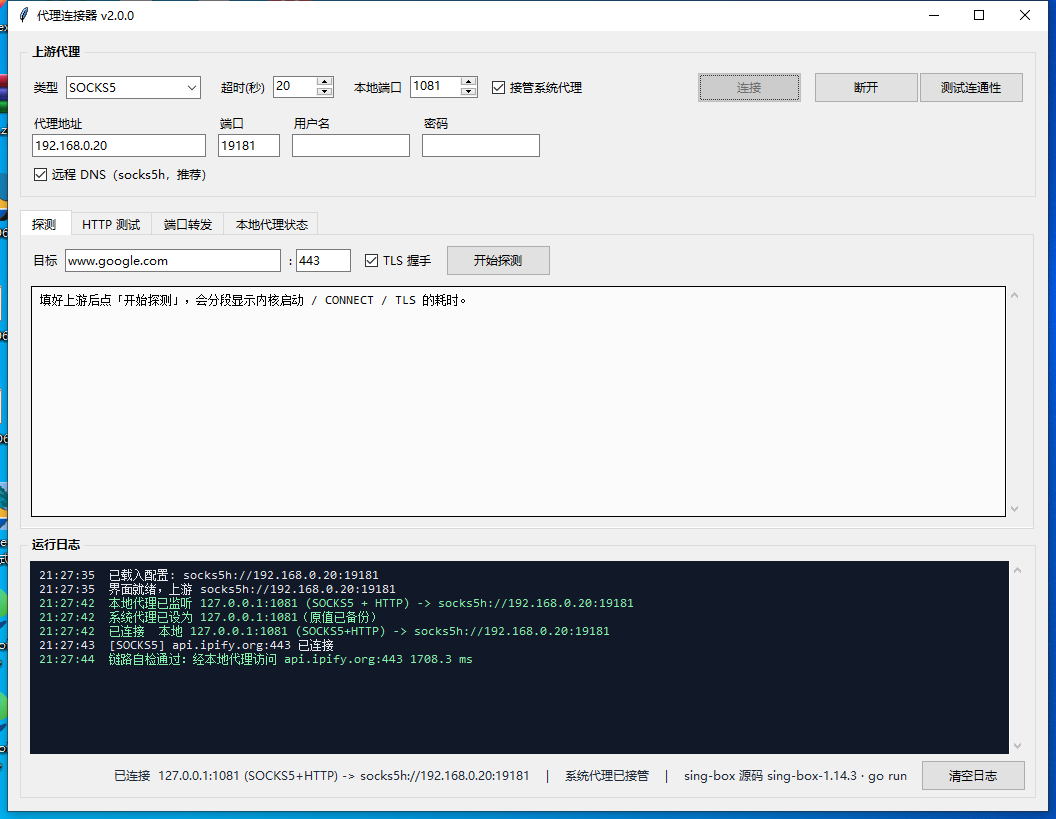
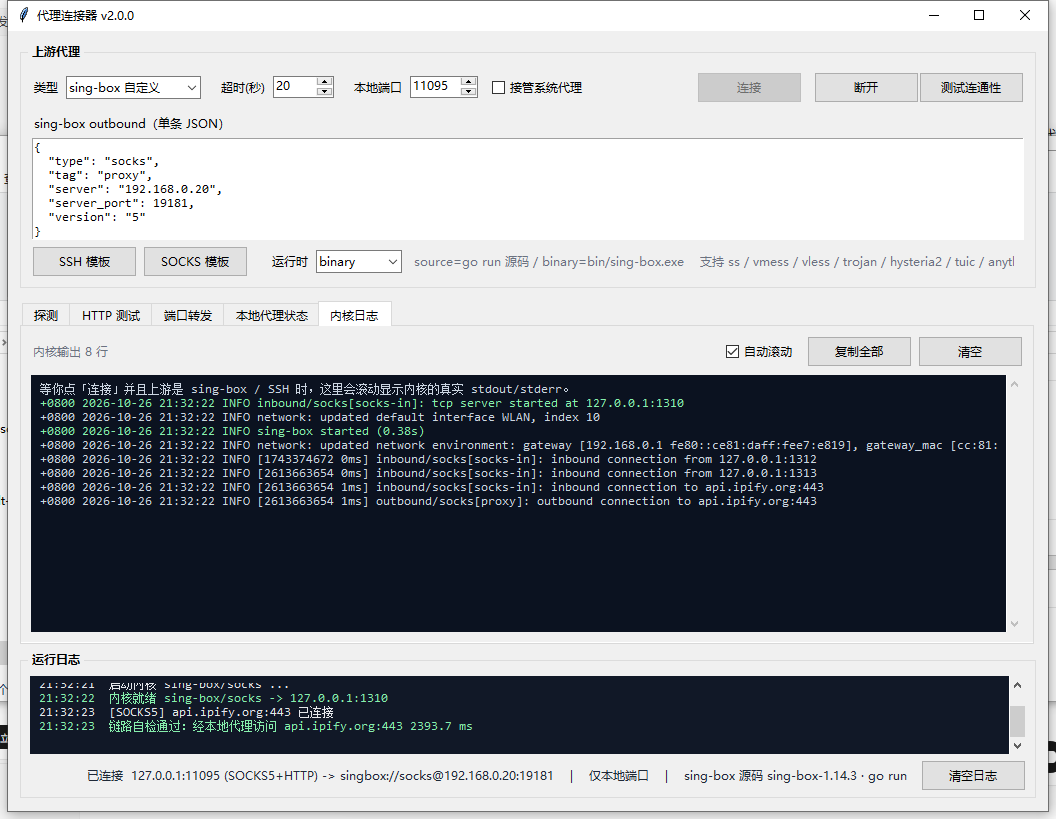
feat: 内核日志单独一页，逐行原样显示 sing-box 输出
- engines: 内核输出改用 KERNEL 级别上报，剥掉 ANSI 颜色码
- 新增「内核日志」页：自动切换 / 分级染色 / 复制全部 / 4000 行上限
- go run 编译期间每 5 秒报「等待内核尚未就绪 Ns」，不再像卡死
- sing-box 与 SSH 表单新增「运行时」下拉（auto/source/binary）
- CLI 同步打印 [内核] 行，可用 QUIET_KERNEL=1 关掉
- 修复无配置文件时系统代理备份丢失、无法精确还原的问题

diff --git a/connector/gui.py b/connector/gui.py
@@ -18,7 +18,7 @@ import tkinter as tk
 from tkinter import messagebox, ttk
 
 from . import __version__
-from .common import split_host_port
+from .common import app_dir, split_host_port
 from .engines import find_go_binary, find_singbox_binary, find_singbox_source
 from .forward import TcpTunnel
 from .localproxy import MixedProxy
@@ -75,10 +75,11 @@ class GuiApp:
         self.upstream: Upstream = upstream or Socks5Upstream("127.0.0.1", 1080)
         self.tunnel: TcpTunnel | None = None
         self.proxy: MixedProxy | None = None
+        # 备份文件必须落盘：没有它就无法把系统代理精确还原
+        state_dir = (os.path.dirname(os.path.abspath(config_path))
+                     if config_path else app_dir())
         self.sysproxy = SystemProxy(
-            state_path=(os.path.join(os.path.dirname(os.path.abspath(config_path)),
-                                     "system_proxy_backup.json")
-                        if config_path else None),
+            state_path=os.path.join(state_dir, "system_proxy_backup.json"),
             log=self.log)
         self.last_target = ""
         self.local_port = 1081
@@ -240,6 +241,12 @@ class GuiApp:
         ttk.Label(cell, text="引擎").pack(anchor="w")
         ttk.Combobox(cell, textvariable=self.v_q_engine, state="readonly", width=26,
                      values=["auto", "singbox", "openssh"]).pack(fill="x")
+        cell2 = ttk.Frame(frame)
+        cell2.grid(row=1, column=2, sticky="ew", padx=(0, 12), pady=(0, 6))
+        ttk.Label(cell2, text="sing-box 运行时").pack(anchor="w")
+        self.v_q_runtime = tk.StringVar(value="auto")
+        ttk.Combobox(cell2, textvariable=self.v_q_runtime, state="readonly", width=10,
+                     values=["auto", "source", "binary"]).pack(fill="x")
         ttk.Label(frame, text="密码登录需要 sing-box 内核；纯密钥可直接用系统 OpenSSH。",
                   style="Hint.TLabel").grid(row=2, column=0, columnspan=4, sticky="w")
         return frame
@@ -258,6 +265,12 @@ class GuiApp:
                    command=lambda: self._sb_template("ssh")).pack(side="left")
         ttk.Button(bar, text="SOCKS 模板",
                    command=lambda: self._sb_template("socks")).pack(side="left", padx=6)
+        ttk.Label(bar, text="运行时").pack(side="left", padx=(16, 0))
+        self.v_sb_runtime = tk.StringVar(value="auto")
+        ttk.Combobox(bar, textvariable=self.v_sb_runtime, state="readonly", width=9,
+                     values=["auto", "source", "binary"]).pack(side="left", padx=6)
+        ttk.Label(bar, text="source=go run 源码 / binary=bin/sing-box.exe",
+                  style="Hint.TLabel").pack(side="left", padx=4)
         ttk.Label(bar, text="支持 ss / vmess / vless / trojan / hysteria2 / tuic / anytls …",
                   style="Hint.TLabel").pack(side="left", padx=8)
         return frame
@@ -295,6 +308,7 @@ class GuiApp:
         self._build_fetch_page()
         self._build_tunnel_page()
         self._build_http_proxy_page()
+        self._build_kernel_page()
 
     def _build_probe_page(self) -> None:
         page = ttk.Frame(self.nb, padding=10)
@@ -384,6 +398,45 @@ class GuiApp:
                     "  · SOCKS5（支持 socks5 的软件、curl --socks5-hostname）\n"
                     "地址形如 127.0.0.1:1081，端口可在上方「本地端口」修改。\n")
 
+    def _build_kernel_page(self) -> None:
+        """sing-box / ssh 内核的原始输出，一行不改，原样展示。"""
+        page = ttk.Frame(self.nb, padding=10)
+        self.nb.add(page, text="  内核日志  ")
+        self.page_kernel = page
+        page.columnconfigure(0, weight=1)
+        page.rowconfigure(1, weight=1)
+
+        bar = ttk.Frame(page)
+        bar.grid(row=0, column=0, sticky="ew")
+        self.lbl_kernel = ttk.Label(bar, text="内核未启动（用 sing-box / SSH 上游时才会有输出）",
+                                    style="Hint.TLabel")
+        self.lbl_kernel.pack(side="left")
+        ttk.Button(bar, text="清空", command=self._clear_kernel).pack(side="right")
+        ttk.Button(bar, text="复制全部", command=self._copy_kernel).pack(side="right", padx=6)
+        self.v_kernel_follow = tk.BooleanVar(value=True)
+        ttk.Checkbutton(bar, text="自动滚动",
+                        variable=self.v_kernel_follow).pack(side="right", padx=6)
+
+        wrap = ttk.Frame(page)
+        wrap.grid(row=1, column=0, sticky="nsew", pady=(8, 0))
+        wrap.columnconfigure(0, weight=1)
+        wrap.rowconfigure(0, weight=1)
+        self.txt_kernel = tk.Text(wrap, wrap="none", font=MONO, state="disabled",
+                                  bg="#0b1220", fg="#cbd5e1", relief="flat",
+                                  padx=8, pady=6)
+        scroll = ttk.Scrollbar(wrap, orient="vertical", command=self.txt_kernel.yview)
+        self.txt_kernel.configure(yscrollcommand=scroll.set)
+        self.txt_kernel.grid(row=0, column=0, sticky="nsew")
+        scroll.grid(row=0, column=1, sticky="ns")
+        self.txt_kernel.tag_configure("err", foreground="#fca5a5")
+        self.txt_kernel.tag_configure("warn", foreground="#fcd34d")
+        self.txt_kernel.tag_configure("ok", foreground="#86efac")
+        self.txt_kernel.tag_configure("dim", foreground="#94a3b8")
+        self._kernel_lines = 0
+        self._kernel_switched = False
+        self._write(self.txt_kernel, "等你点「连接」并且上游是 sing-box / SSH 时，"
+                                     "这里会滚动显示内核的真实 stdout/stderr。\n")
+
     def _build_log(self) -> None:
         card = ttk.LabelFrame(self.root, text=" 运行日志 ", padding=(8, 6))
         card.grid(row=2, column=0, sticky="nsew", padx=12, pady=(0, 12))
@@ -420,7 +473,7 @@ class GuiApp:
 
     def _poll_logs(self) -> None:
         try:
-            for _ in range(200):
+            for _ in range(600):
                 level, message = self._log_queue.get_nowait()
                 self._append_log(level, message)
         except queue.Empty:
@@ -428,6 +481,9 @@ class GuiApp:
         self.root.after(120, self._poll_logs)
 
     def _append_log(self, level: str, message: str) -> None:
+        if level == "KERNEL":
+            self._append_kernel(message)
+            return
         text = self.txt_log
         text.configure(state="normal")
         text.insert("end", f"{time.strftime('%H:%M:%S')}  {message}\n", level)
@@ -436,6 +492,49 @@ class GuiApp:
             text.delete("1.0", f"{lines - 600}.0")
         text.configure(state="disabled")
         text.see("end")
+
+    def _append_kernel(self, message: str) -> None:
+        """内核原始行：不改写、不缩略，只按关键字染色。"""
+        low = message.lower()
+        if "error" in low or "fatal" in low or "failed" in low or "panic" in low:
+            tag = "err"
+        elif "warn" in low:
+            tag = "warn"
+        elif "started" in low or "listening" in low or "sing-box started" in low:
+            tag = "ok"
+        elif low.startswith(("go:", "#", "building", "compiling")):
+            tag = "dim"
+        else:
+            tag = ""
+
+        text = self.txt_kernel
+        text.configure(state="normal")
+        text.insert("end", message + "\n", tag)
+        self._kernel_lines += 1
+        if self._kernel_lines > 4000:
+            text.delete("1.0", "500.0")
+            self._kernel_lines -= 500
+        text.configure(state="disabled")
+        if self.v_kernel_follow.get():
+            text.see("end")
+
+        self.lbl_kernel.configure(text=f"内核输出 {self._kernel_lines} 行")
+        if not self._kernel_switched:
+            self._kernel_switched = True
+            self.nb.select(self.page_kernel)
+
+    def _clear_kernel(self) -> None:
+        self.txt_kernel.configure(state="normal")
+        self.txt_kernel.delete("1.0", "end")
+        self.txt_kernel.configure(state="disabled")
+        self._kernel_lines = 0
+        self.lbl_kernel.configure(text="内核日志已清空")
+
+    def _copy_kernel(self) -> None:
+        body = self.txt_kernel.get("1.0", "end-1c")
+        self.root.clipboard_clear()
+        self.root.clipboard_append(body)
+        self.lbl_kernel.configure(text=f"已复制 {body.count(chr(10)) + 1} 行到剪贴板")
 
     def _clear_log(self) -> None:
         self.txt_log.configure(state="normal")
@@ -550,6 +649,7 @@ class GuiApp:
                 "password": self.v_q_pass.get(),
                 "key_path": self.v_q_key.get().strip(),
                 "engine": self.v_q_engine.get() or "auto",
+                "runtime": self.v_q_runtime.get() or "auto",
             })
         elif kind == "singbox":
             raw = self.txt_sb.get("1.0", "end").strip()
@@ -562,6 +662,7 @@ class GuiApp:
             if not isinstance(outbound, dict) or "type" not in outbound:
                 raise ValueError("outbound 必须是含 type 字段的对象")
             payload["outbound"] = outbound
+            payload["runtime"] = self.v_sb_runtime.get() or "auto"
         return payload
 
     def _fill_form(self, upstream: Upstream) -> None:
@@ -589,7 +690,9 @@ class GuiApp:
             self.v_q_pass.set(data.get("password", "") or "")
             self.v_q_key.set(data.get("key_path", "") or "")
             self.v_q_engine.set(data.get("engine", "auto"))
+            self.v_q_runtime.set(data.get("runtime", "auto"))
         elif kind == "singbox":
+            self.v_sb_runtime.set(data.get("runtime", "auto"))
             self.txt_sb.delete("1.0", "end")
             self.txt_sb.insert("1.0", json.dumps(data.get("outbound", {}),
                                                  ensure_ascii=False, indent=2))
@@ -607,6 +710,8 @@ class GuiApp:
         self.v_s_rdns.set(True)
         self.v_h_tls.set(False)
         self.v_q_engine.set("auto")
+        self.v_q_runtime.set("auto")
+        self.v_sb_runtime.set("auto")
 
     def _sb_template(self, kind: str) -> None:
         if kind == "ssh":

diff --git a/connector/engines.py b/connector/engines.py
@@ -14,6 +14,7 @@ from __future__ import annotations
 import json
 import os
 import platform
+import re
 import shutil
 import subprocess
 import tempfile
@@ -24,6 +25,9 @@ from .common import ProxyError, app_dir, free_port, wait_port
 from .upstream import Socks5Upstream, Upstream
 
 SINGBOX_REPO = "SagerNet/sing-box"
+
+# ANSI 转义序列（sing-box 的日志级别染色）
+_ANSI_RE = re.compile(r"\x1b\[[0-9;]*[A-Za-z]")
 
 
 # --------------------------------------------------------------------------
@@ -271,6 +275,10 @@ class ProcessSocksEngine(Upstream):
                 text=True, encoding="utf-8", errors="replace", creationflags=flags,
             )
             threading.Thread(target=self._pump, args=(proc,), daemon=True).start()
+            # go run 编译期间内核一声不吭，界面会像卡死；这里按秒报等待时长
+            stop_beat = threading.Event()
+            threading.Thread(target=self._heartbeat,
+                             args=(proc, stop_beat), daemon=True).start()
             try:
                 wait_port("127.0.0.1", port, timeout=self.start_timeout,
                           should_stop=lambda: proc.poll() is not None)
@@ -278,6 +286,8 @@ class ProcessSocksEngine(Upstream):
                 detail = " / ".join(self._tail[-4:]) or f"进程退出码 {proc.poll()}"
                 self._kill_tree(proc)
                 raise ProxyError(f"{self._engine_label()} 启动失败: {detail}") from None
+            finally:
+                stop_beat.set()
             self._proc = proc
             self._tmpdir = tmpdir
             self._local = Socks5Upstream("127.0.0.1", port, timeout=self.timeout)
@@ -285,6 +295,16 @@ class ProcessSocksEngine(Upstream):
         except BaseException:
             shutil.rmtree(tmpdir, ignore_errors=True)
             raise
+
+    def _heartbeat(self, proc: subprocess.Popen, stop: threading.Event) -> None:
+        """内核自己不打日志的时候（go run 编译中），把等待秒数如实报出来。"""
+        elapsed = 0
+        while not stop.wait(5):
+            elapsed += 5
+            if proc.poll() is not None:
+                return
+            self._log("INFO", f"[等待] 内核尚未就绪 {elapsed}s"
+                              f"（源码模式编译中，上限 {int(self.start_timeout)}s）")
 
     def _kill_tree(self, proc: subprocess.Popen | None) -> None:
         """结束子进程及其子进程（go run 会再派生子进程，必须整棵树杀）。"""
@@ -316,13 +336,15 @@ class ProcessSocksEngine(Upstream):
         if stream is None:
             return
         for line in stream:
-            line = line.rstrip()
-            if not line:
+            # sing-box 自带 ANSI 颜色码，日志面板里不能直接显示
+            line = _ANSI_RE.sub("", line).rstrip("\r\n")
+            if not line.strip():
                 continue
             self._tail.append(line)
             if len(self._tail) > 40:
                 del self._tail[0]
-            self._log("DEBUG", f"[{self._engine_label()}] {line}")
+            # KERNEL 级别：内核原始输出，界面上单独一页展示，不做任何改写
+            self._log("KERNEL", line)
 
     def connect(self, host: str, port: int, timeout: float | None = None):
         self.start()

diff --git a/socks5_connector.py b/socks5_connector.py
@@ -134,8 +134,13 @@ def build_parser() -> argparse.ArgumentParser:
 
 
 def _cli_log(level: str, message: str) -> None:
-    """CLI 侧的日志出口：内核 DEBUG 输出默认静音，DEBUG=1 才显示。"""
+    """CLI 侧的日志出口：内核原始行照打，DEBUG 需要 DEBUG=1 才显示。"""
     if level == "DEBUG" and not os.environ.get("DEBUG"):
+        return
+    if level == "KERNEL":
+        if os.environ.get("QUIET_KERNEL"):
+            return
+        print(f"{time.strftime('%H:%M:%S')} [内核] {message}", flush=True)
         return
     print(f"{time.strftime('%H:%M:%S')} [{level}] {message}", flush=True)
 

diff --git a/README.md b/README.md
@@ -48,7 +48,25 @@ curl --socks5-hostname 127.0.0.1:1081 https://api.ipify.org
 curl -x http://127.0.0.1:1081 https://api.ipify.org
 ```
 
-下面四个分页分别是探测、HTTP 测试、端口转发、本地代理状态。底部是实时日志。
+下面五个分页：探测、HTTP 测试、端口转发、本地代理状态、**内核日志**。底部是实时日志。
+
+## 内核日志
+
+上游是 sing-box 或 SSH（sing-box 引擎）时，内核的 stdout/stderr 会被逐行原样送到「内核日志」页：不做摘录、不做改写，只剥掉 ANSI 颜色码。
+
+```
++0800 2026-10-26 21:32:22 INFO inbound/socks[socks-in]: tcp server started at 127.0.0.1:1310
++0800 2026-10-26 21:32:22 INFO sing-box started (0.38s)
++0800 2026-10-26 21:32:22 INFO [2813636 1ms] outbound/socks[proxy]: outbound connection to api.ipify.org:443
+```
+
+- 第一次有输出时自动切到该页，之后不再抢焦点
+- ERROR/FATAL 标红、WARN 标黄、`sing-box started` 标绿
+- 右上「复制全部」一键拷走，排查问题直接贴
+- `go run` 编译期间内核本身没有输出，会每 5 秒补一行 `[等待] 内核尚未就绪 Ns`（这是我们报的进度，不是内核日志）
+- 上限保留 4000 行，超了从头裁
+
+命令行也能看到同样的原始输出，前缀是 `[内核]`；不想看就设环境变量 `QUIET_KERNEL=1`。
 
 配置写在同目录 `socks5_connector.json`，v1 的老配置能自动识别。
 
